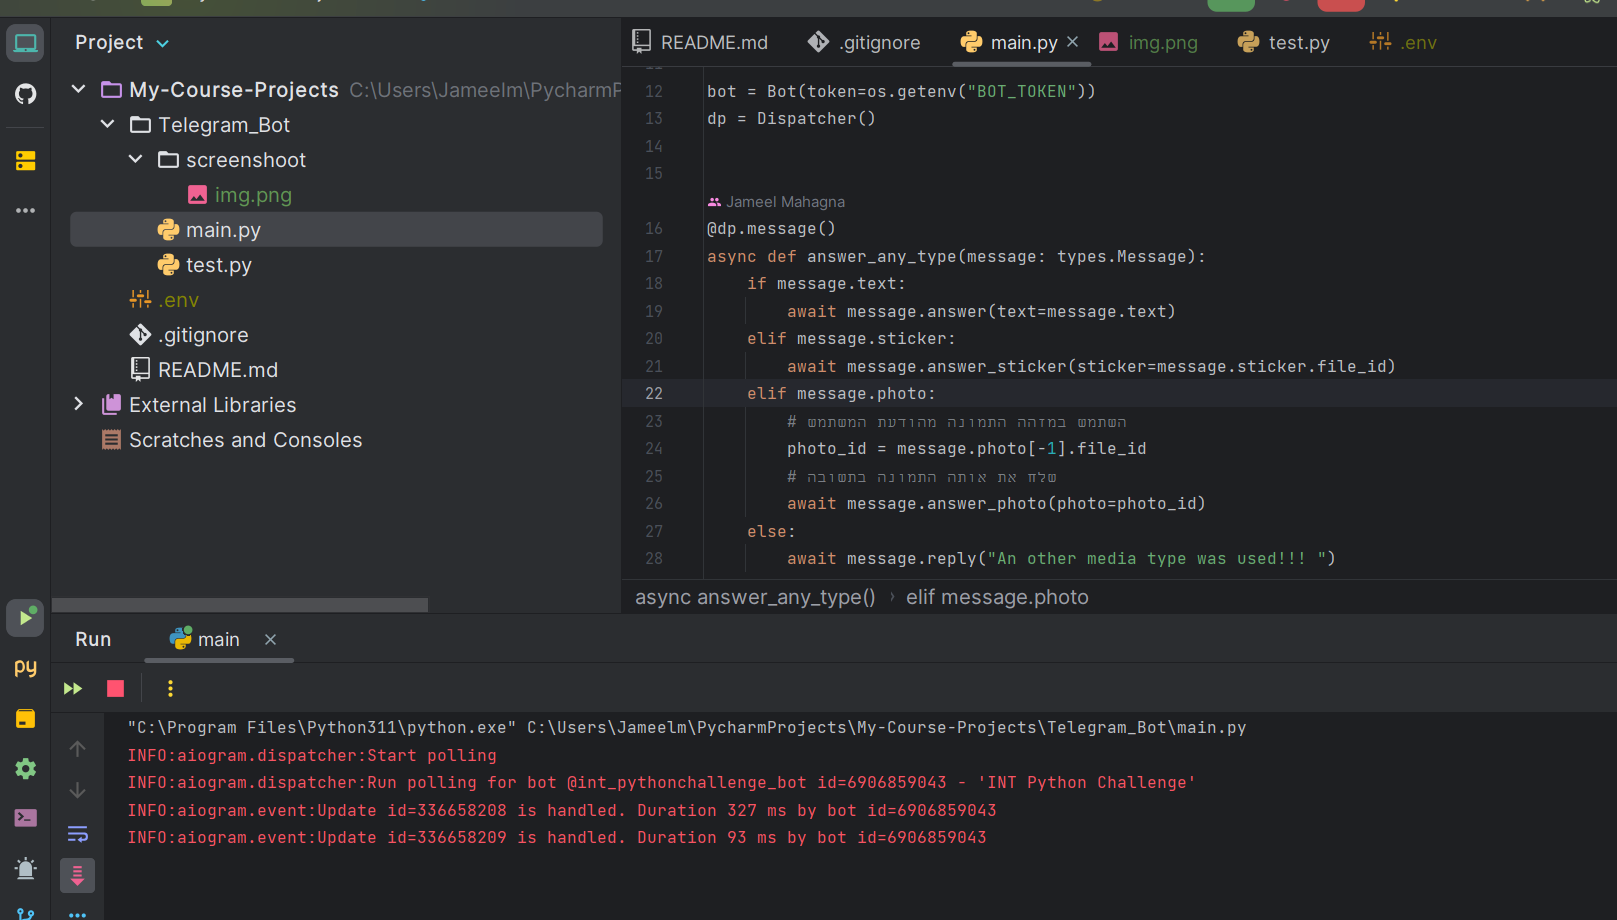
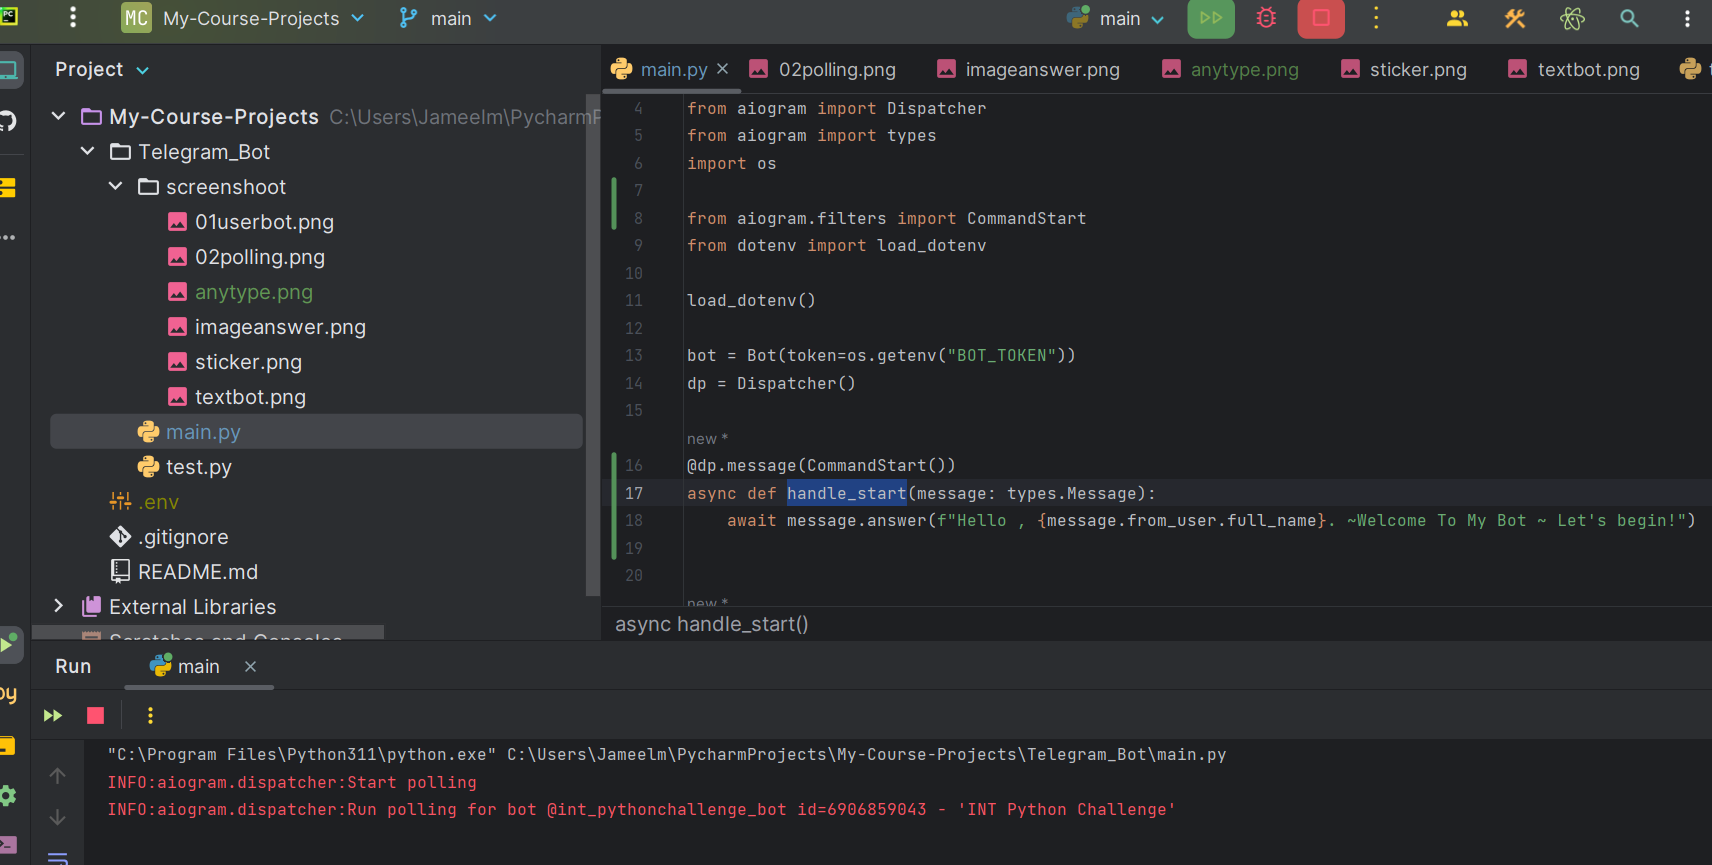
edit code

Changed region(s): [[0.0, 0.0, 1.0, 1.0], [0.3711, 0.6867, 0.4638, 0.7491], [0.6494, 0.9364, 0.6803, 0.9676]]

diff --git a/Telegram_Bot/main.py b/Telegram_Bot/main.py
@@ -1,10 +1,11 @@
-
 import asyncio
 import logging
 from aiogram import Bot
 from aiogram import Dispatcher
 from aiogram import types
 import os
+
+from aiogram.filters import CommandStart
 from dotenv import load_dotenv
 
 load_dotenv()
@@ -12,20 +13,19 @@ load_dotenv()
 bot = Bot(token=os.getenv("BOT_TOKEN"))
 dp = Dispatcher()
 
+@dp.message(CommandStart())
+async def handle_start(message: types.Message):
+    await message.answer(f"Hello , {message.from_user.full_name}. ~Welcome To My Bot ~ Let's begin!")
+
 
 @dp.message()
-async def answer_any_type(message: types.Message):
-    if message.text:
-        await message.answer(text=message.text)
-    elif message.sticker:
-        await message.answer_sticker(sticker=message.sticker.file_id)
-    elif message.photo:
-        # use the image id from user
-        photo_id = message.photo[-1].file_id
-        # send the same image
-        await message.answer_photo(photo=photo_id)
-    else:
-        await message.reply("An other media type was used!!! ")
+async def answer_as_echo(message: types.Message):
+    try:
+        await message.send_copy(chat_id=message.chat.id)
+    except Exception:
+        await message.answer("Unsupported media type...")
+
+
 
 @dp.message()
 async def main():
@@ -35,3 +35,19 @@ async def main():
 
 if __name__ == "__main__":
     asyncio.run(main())
+
+
+
+# @dp.message()
+# async def answer_any_type(message: types.Message):
+#     if message.text:
+#         await message.answer(text=message.text)
+#     elif message.sticker:
+#         await message.answer_sticker(sticker=message.sticker.file_id)
+#     elif message.photo:
+#         # use the image id from user
+#         photo_id = message.photo[-1].file_id
+#         # send the same image
+#         await message.answer_photo(photo=photo_id)
+#     else:
+#         await message.reply("An other media type was used!!! ")
